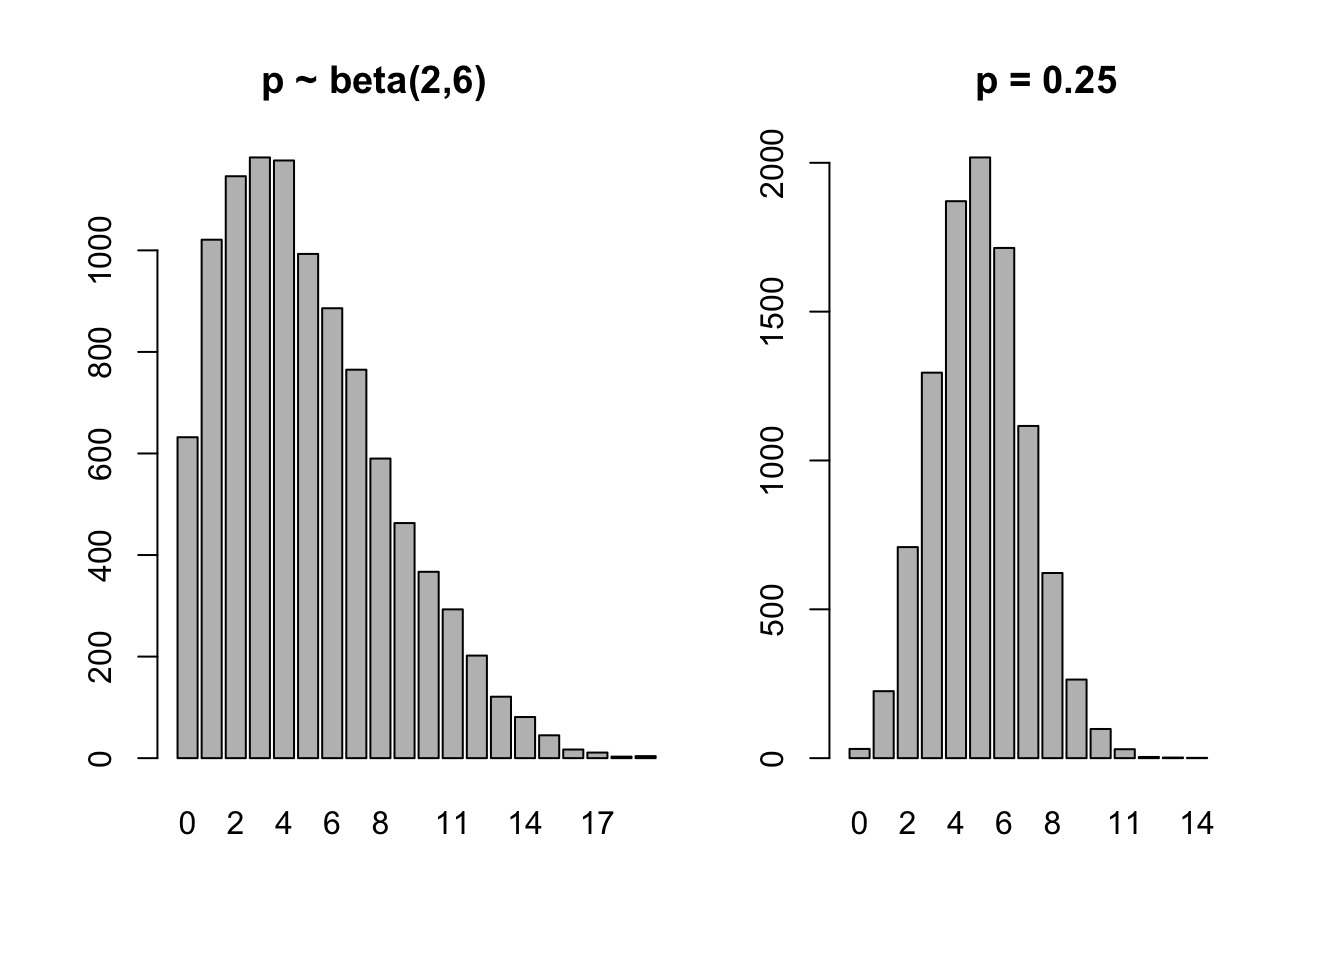
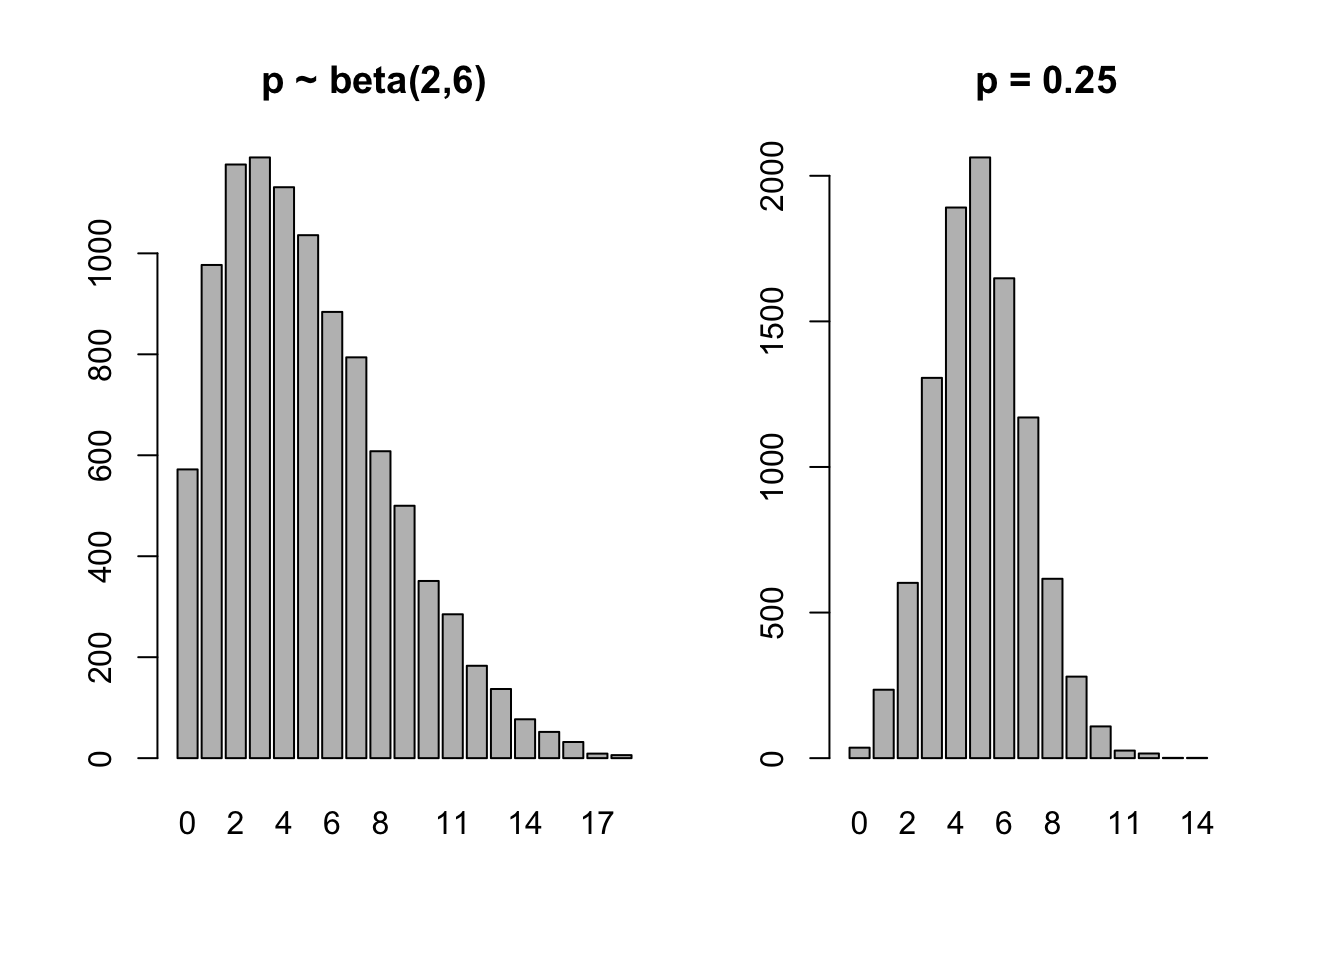
add

diff --git a/docs/teaching/DATA352/course_documents/homework/homework_4.html b/docs/teaching/DATA352/course_documents/homework/homework_4.html
@@ -365,11 +365,11 @@ Show solution
 <div class="code-copy-outer-scaffold"><div class="sourceCode cell-code" id="cb13"><pre class="sourceCode r code-with-copy"><code class="sourceCode r"><span id="cb13-1"><a href="#cb13-1" aria-hidden="true" tabindex="-1"></a>mysim <span class="ot">&lt;-</span> <span class="fu">rbeta</span>(<span class="dv">5000</span>, <span class="at">shape1 =</span> <span class="dv">2</span>, <span class="at">shape2 =</span> <span class="dv">3</span>)</span>
 <span id="cb13-2"><a href="#cb13-2" aria-hidden="true" tabindex="-1"></a><span class="fu">head</span>(mysim)</span></code></pre></div><button title="Copy to Clipboard" class="code-copy-button"><i class="bi"></i></button></div>
 <div class="cell-output cell-output-stdout">
-<pre><code>[1] 0.5889455 0.4849449 0.2070542 0.7482323 0.3377568 0.4885132</code></pre>
+<pre><code>[1] 0.3811981 0.2689802 0.2906540 0.7226574 0.6628485 0.3145463</code></pre>
 </div>
 <div class="code-copy-outer-scaffold"><div class="sourceCode cell-code" id="cb15"><pre class="sourceCode r code-with-copy"><code class="sourceCode r"><span id="cb15-1"><a href="#cb15-1" aria-hidden="true" tabindex="-1"></a><span class="fu">mean</span>(mysim)</span></code></pre></div><button title="Copy to Clipboard" class="code-copy-button"><i class="bi"></i></button></div>
 <div class="cell-output cell-output-stdout">
-<pre><code>[1] 0.4011388</code></pre>
+<pre><code>[1] 0.398767</code></pre>
 </div>
 <div class="code-copy-outer-scaffold"><div class="sourceCode cell-code" id="cb17"><pre class="sourceCode r code-with-copy"><code class="sourceCode r"><span id="cb17-1"><a href="#cb17-1" aria-hidden="true" tabindex="-1"></a><span class="fu">hist</span>(mysim, <span class="at">nclass =</span> <span class="dv">20</span>, <span class="at">main =</span> <span class="st">"5000 simulated days"</span>,</span>
 <span id="cb17-2"><a href="#cb17-2" aria-hidden="true" tabindex="-1"></a>     <span class="at">xlab =</span> <span class="st">"Proportion of stocks going up"</span>, <span class="at">col =</span> <span class="st">"royalblue"</span>)</span></code></pre></div><button title="Copy to Clipboard" class="code-copy-button"><i class="bi"></i></button></div>
@@ -410,7 +410,7 @@ Show solution
 <h2 class="anchored" data-anchor-id="question-4">Question 4</h2>
 <p>In <em>Introduction to Probability</em>, do Question 26 on page 222.</p>
 <blockquote class="blockquote">
-<p>Bridies’ Bearing Works manufactures bearing shafts whose diameters are normally distributed with parameters <span class="math inline">\(\mu = 1\)</span>, <span class="math inline">\(\sigma = .002\)</span>. The buyer’s specifications require these diameters to be 1.000 ± .003 cm. What fraction of the manu- facturer’s shafts are likely to be rejected? If the manufacturer improves her quality control, she can reduce the value of <span class="math inline">\(\sigma\)</span>. What value of <span class="math inline">\(\sigma\)</span> will ensure that no more than 1 percent of her shafts are likely to be rejected?</p>
+<p>Bridies’ Bearing Works manufactures bearing shafts whose diameters are normally distributed with parameters <span class="math inline">\(\mu = 1\)</span>, <span class="math inline">\(\sigma = .002\)</span>. The buyer’s specifications require these diameters to be 1.000 ± .003 cm. What fraction of the manufacturer’s shafts are likely to be rejected? If the manufacturer improves her quality control, she can reduce the value of <span class="math inline">\(\sigma\)</span>. What value of <span class="math inline">\(\sigma\)</span> will ensure that no more than 1 percent of her shafts are likely to be rejected?</p>
 </blockquote>
 <details>
 <summary>
@@ -482,7 +482,7 @@ Show solution
 <div class="code-copy-outer-scaffold"><div class="sourceCode cell-code" id="cb28"><pre class="sourceCode r code-with-copy"><code class="sourceCode r"><span id="cb28-1"><a href="#cb28-1" aria-hidden="true" tabindex="-1"></a>mysim <span class="ot">&lt;-</span> <span class="fu">rbinom</span>(<span class="dv">1000</span>, <span class="at">size =</span> <span class="dv">20</span>, <span class="at">prob =</span> <span class="fl">0.25</span>)</span>
 <span id="cb28-2"><a href="#cb28-2" aria-hidden="true" tabindex="-1"></a><span class="fu">head</span>(mysim)</span></code></pre></div><button title="Copy to Clipboard" class="code-copy-button"><i class="bi"></i></button></div>
 <div class="cell-output cell-output-stdout">
-<pre><code>[1] 3 6 4 5 4 5</code></pre>
+<pre><code>[1] 6 4 3 5 5 4</code></pre>
 </div>
 </div>
 <p>The beta distribution assigned to <span class="math inline">\(p\)</span> has mean <span class="math inline">\(2/8=0.25\)</span>. Both models have the same expected number of responding patients (5), but the beta-binomial model has more variation.</p>
@@ -497,11 +497,11 @@ Show solution
 <span id="cb30-8"><a href="#cb30-8" aria-hidden="true" tabindex="-1"></a></span>
 <span id="cb30-9"><a href="#cb30-9" aria-hidden="true" tabindex="-1"></a><span class="fu">mean</span>(result <span class="sc">&lt;</span> <span class="dv">5</span>)  <span class="co"># Estimated probability fewer than 5 respond</span></span></code></pre></div><button title="Copy to Clipboard" class="code-copy-button"><i class="bi"></i></button></div>
 <div class="cell-output cell-output-stdout">
-<pre><code>[1] 0.5159</code></pre>
+<pre><code>[1] 0.5046</code></pre>
 </div>
 <div class="code-copy-outer-scaffold"><div class="sourceCode cell-code" id="cb32"><pre class="sourceCode r code-with-copy"><code class="sourceCode r"><span id="cb32-1"><a href="#cb32-1" aria-hidden="true" tabindex="-1"></a><span class="fu">mean</span>(result)      <span class="co"># Estimated average number who respond</span></span></code></pre></div><button title="Copy to Clipboard" class="code-copy-button"><i class="bi"></i></button></div>
 <div class="cell-output cell-output-stdout">
-<pre><code>[1] 4.9381</code></pre>
+<pre><code>[1] 5.0082</code></pre>
 </div>
 <div class="code-copy-outer-scaffold"><div class="sourceCode cell-code" id="cb34"><pre class="sourceCode r code-with-copy"><code class="sourceCode r"><span id="cb34-1"><a href="#cb34-1" aria-hidden="true" tabindex="-1"></a><span class="fu">par</span>(<span class="at">mfrow =</span> <span class="fu">c</span>(<span class="dv">1</span>, <span class="dv">2</span>))</span>
 <span id="cb34-2"><a href="#cb34-2" aria-hidden="true" tabindex="-1"></a><span class="fu">plot</span>(<span class="fu">as.factor</span>(result), <span class="at">main =</span> <span class="st">"p ~ beta(2,6)"</span>, <span class="at">xlim =</span> <span class="fu">c</span>(<span class="dv">0</span>, <span class="dv">20</span>))</span>
@@ -544,13 +544,13 @@ Show solution
 <span id="cb37-2"><a href="#cb37-2" aria-hidden="true" tabindex="-1"></a>                   <span class="at">prob =</span> <span class="fu">c</span>(<span class="dv">1</span> <span class="sc">-</span> a, a))</span>
 <span id="cb37-3"><a href="#cb37-3" aria-hidden="true" tabindex="-1"></a>mysample</span></code></pre></div><button title="Copy to Clipboard" class="code-copy-button"><i class="bi"></i></button></div>
 <div class="cell-output cell-output-stdout">
-<pre><code>  [1] 1 1 0 1 1 0 1 1 0 1 1 1 1 0 1 0 0 0 1 0 1 1 1 0 1 1 1 1 0 1 1 1 1 1 0 1 1
- [38] 1 1 1 0 1 0 1 0 0 1 1 0 1 0 1 1 1 1 0 0 1 1 1 0 1 1 1 1 1 1 0 1 0 1 1 1 1
- [75] 1 1 1 1 1 0 0 1 0 1 1 1 1 0 0 1 1 1 1 0 1 1 1 1 0 1</code></pre>
+<pre><code>  [1] 1 0 0 1 1 1 1 1 1 0 1 1 1 1 1 0 1 1 1 1 1 1 1 1 1 1 0 1 1 0 1 0 1 1 1 1 1
+ [38] 1 1 1 1 1 0 0 1 1 0 1 1 1 0 1 1 1 0 1 1 1 1 0 1 1 1 1 1 1 1 0 1 1 1 0 1 0
+ [75] 1 1 1 1 1 1 1 1 0 1 1 1 1 1 0 1 1 0 0 1 1 1 1 1 1 1</code></pre>
 </div>
 <div class="code-copy-outer-scaffold"><div class="sourceCode cell-code" id="cb39"><pre class="sourceCode r code-with-copy"><code class="sourceCode r"><span id="cb39-1"><a href="#cb39-1" aria-hidden="true" tabindex="-1"></a><span class="fu">sum</span>(mysample)</span></code></pre></div><button title="Copy to Clipboard" class="code-copy-button"><i class="bi"></i></button></div>
 <div class="cell-output cell-output-stdout">
-<pre><code>[1] 71</code></pre>
+<pre><code>[1] 80</code></pre>
 </div>
 </div>
 <p>For part 3, compare the simulation estimate with the exact binomial probability.</p>
@@ -566,7 +566,7 @@ Show solution
 <span id="cb41-9"><a href="#cb41-9" aria-hidden="true" tabindex="-1"></a></span>
 <span id="cb41-10"><a href="#cb41-10" aria-hidden="true" tabindex="-1"></a><span class="fu">mean</span>(result <span class="sc">&gt;=</span> <span class="dv">80</span>)  <span class="co"># Simulation estimate</span></span></code></pre></div><button title="Copy to Clipboard" class="code-copy-button"><i class="bi"></i></button></div>
 <div class="cell-output cell-output-stdout">
-<pre><code>[1] 0.1065</code></pre>
+<pre><code>[1] 0.1015</code></pre>
 </div>
 <div class="code-copy-outer-scaffold"><div class="sourceCode cell-code" id="cb43"><pre class="sourceCode r code-with-copy"><code class="sourceCode r"><span id="cb43-1"><a href="#cb43-1" aria-hidden="true" tabindex="-1"></a><span class="dv">1</span> <span class="sc">-</span> <span class="fu">pbinom</span>(<span class="dv">79</span>, <span class="at">size =</span> <span class="dv">100</span>, <span class="at">prob =</span> a)  <span class="co"># Exact probability</span></span></code></pre></div><button title="Copy to Clipboard" class="code-copy-button"><i class="bi"></i></button></div>
 <div class="cell-output cell-output-stdout">
@@ -604,7 +604,7 @@ Show solution
 <span id="cb46-14"><a href="#cb46-14" aria-hidden="true" tabindex="-1"></a></span>
 <span id="cb46-15"><a href="#cb46-15" aria-hidden="true" tabindex="-1"></a><span class="fu">mean</span>(result <span class="sc">&gt;=</span> <span class="dv">80</span>)</span></code></pre></div><button title="Copy to Clipboard" class="code-copy-button"><i class="bi"></i></button></div>
 <div class="cell-output cell-output-stdout">
-<pre><code>[1] 0.2608</code></pre>
+<pre><code>[1] 0.2623</code></pre>
 </div>
 <div class="code-copy-outer-scaffold"><div class="sourceCode cell-code" id="cb48"><pre class="sourceCode r code-with-copy"><code class="sourceCode r"><span id="cb48-1"><a href="#cb48-1" aria-hidden="true" tabindex="-1"></a><span class="fu">hist</span>(result, <span class="at">probability =</span> <span class="cn">TRUE</span>,</span>
 <span id="cb48-2"><a href="#cb48-2" aria-hidden="true" tabindex="-1"></a>     <span class="at">main =</span> <span class="st">"Number of patients with symptoms in 5 days"</span>,</span>

diff --git a/docs/teaching/DATA352/course_documents/all_lectures/Lecture_3.html b/docs/teaching/DATA352/course_documents/all_lectures/Lecture_3.html
@@ -239,7 +239,7 @@
 <span id="cb1-6"><a href=""></a><span class="co"># 2. Test the function</span></span>
 <span id="cb1-7"><a href=""></a><span class="fu">sim_die</span>()</span></code></pre></div><button title="Copy to Clipboard" class="code-copy-button"><i class="bi"></i></button></div>
 <div class="cell-output cell-output-stdout">
-<pre><code>[1] 1</code></pre>
+<pre><code>[1] 4</code></pre>
 </div>
 <div class="code-copy-outer-scaffold"><div class="sourceCode cell-code" id="cb3"><pre class="sourceCode numberSource r number-lines code-with-copy"><code class="sourceCode r"><span id="cb3-1"><a href=""></a><span class="co"># 3. Initialize global simulation parameters</span></span>
 <span id="cb3-2"><a href=""></a>NSIM <span class="ot">&lt;-</span> <span class="dv">10000</span></span>
@@ -253,13 +253,13 @@
 <span id="cb3-10"><a href=""></a>}</span>
 <span id="cb3-11"><a href=""></a><span class="fu">mean</span>(result)</span></code></pre></div><button title="Copy to Clipboard" class="code-copy-button"><i class="bi"></i></button></div>
 <div class="cell-output cell-output-stdout">
-<pre><code>[1] 3.5053</code></pre>
+<pre><code>[1] 3.4698</code></pre>
 </div>
 <div class="code-copy-outer-scaffold"><div class="sourceCode cell-code" id="cb5"><pre class="sourceCode numberSource r number-lines code-with-copy"><code class="sourceCode r"><span id="cb5-1"><a href=""></a><span class="do">#### Method 2: Base R replicate()</span></span>
 <span id="cb5-2"><a href=""></a>result <span class="ot">&lt;-</span> <span class="fu">replicate</span>(NSIM, <span class="fu">sim_die</span>())</span>
 <span id="cb5-3"><a href=""></a><span class="fu">mean</span>(result)</span></code></pre></div><button title="Copy to Clipboard" class="code-copy-button"><i class="bi"></i></button></div>
 <div class="cell-output cell-output-stdout">
-<pre><code>[1] 3.492</code></pre>
+<pre><code>[1] 3.475</code></pre>
 </div>
 <div class="code-copy-outer-scaffold"><div class="sourceCode cell-code" id="cb7"><pre class="sourceCode numberSource r number-lines code-with-copy"><code class="sourceCode r"><span id="cb7-1"><a href=""></a><span class="do">#### Method 3: parallel processing (optional)</span></span>
 <span id="cb7-2"><a href=""></a><span class="fu">library</span>(parallel)</span>
@@ -269,7 +269,7 @@
 <span id="cb7-6"><a href=""></a><span class="fu">stopCluster</span>(cl)</span>
 <span id="cb7-7"><a href=""></a><span class="fu">mean</span>(result)</span></code></pre></div><button title="Copy to Clipboard" class="code-copy-button"><i class="bi"></i></button></div>
 <div class="cell-output cell-output-stdout">
-<pre><code>[1] 3.4874</code></pre>
+<pre><code>[1] 3.526</code></pre>
 </div>
 </div>
 <p>Note: Method 1 and Method 2 are computational similar (provided that the <code>result</code> vector is <strong>pre-allocated</strong>). Method 3 is more advanced and can be significantly faster for very large simulations.</p>
@@ -360,7 +360,7 @@ Show solution
 </div>
 <div class="code-copy-outer-scaffold"><div class="sourceCode cell-code" id="cb18"><pre class="sourceCode numberSource r number-lines code-with-copy"><code class="sourceCode r"><span id="cb18-1"><a href=""></a><span class="fu">roll_die</span>(<span class="dv">20</span>)</span></code></pre></div><button title="Copy to Clipboard" class="code-copy-button"><i class="bi"></i></button></div>
 <div class="cell-output cell-output-stdout">
-<pre><code>[1] 10</code></pre>
+<pre><code>[1] 16</code></pre>
 </div>
 <div class="code-copy-outer-scaffold"><div class="sourceCode cell-code" id="cb20"><pre class="sourceCode numberSource r number-lines code-with-copy"><code class="sourceCode r"><span id="cb20-1"><a href=""></a>mean_of_two <span class="ot">&lt;-</span> <span class="cf">function</span>(x, y) {</span>
 <span id="cb20-2"><a href=""></a>  result <span class="ot">&lt;-</span> (x <span class="sc">+</span> y) <span class="sc">/</span> <span class="dv">2</span></span>
@@ -413,7 +413,7 @@ Show solution
 <span id="cb25-4"><a href=""></a>result <span class="ot">&lt;-</span> <span class="fu">replicate</span>(NSIM, <span class="fu">play_game</span>())</span>
 <span id="cb25-5"><a href=""></a><span class="fu">mean</span>(result)</span></code></pre></div><button title="Copy to Clipboard" class="code-copy-button"><i class="bi"></i></button></div>
 <div class="cell-output cell-output-stdout">
-<pre><code>[1] -0.8065</code></pre>
+<pre><code>[1] -0.922</code></pre>
 </div>
 </div>
 <p>For comparison, the expected value is</p>

diff --git a/teaching/DATA352/course_documents/all_lectures/Lecture_3.html b/teaching/DATA352/course_documents/all_lectures/Lecture_3.html
@@ -239,7 +239,7 @@
 <span id="cb1-6"><a href=""></a><span class="co"># 2. Test the function</span></span>
 <span id="cb1-7"><a href=""></a><span class="fu">sim_die</span>()</span></code></pre></div><button title="Copy to Clipboard" class="code-copy-button"><i class="bi"></i></button></div>
 <div class="cell-output cell-output-stdout">
-<pre><code>[1] 1</code></pre>
+<pre><code>[1] 4</code></pre>
 </div>
 <div class="code-copy-outer-scaffold"><div class="sourceCode cell-code" id="cb3"><pre class="sourceCode numberSource r number-lines code-with-copy"><code class="sourceCode r"><span id="cb3-1"><a href=""></a><span class="co"># 3. Initialize global simulation parameters</span></span>
 <span id="cb3-2"><a href=""></a>NSIM <span class="ot">&lt;-</span> <span class="dv">10000</span></span>
@@ -253,13 +253,13 @@
 <span id="cb3-10"><a href=""></a>}</span>
 <span id="cb3-11"><a href=""></a><span class="fu">mean</span>(result)</span></code></pre></div><button title="Copy to Clipboard" class="code-copy-button"><i class="bi"></i></button></div>
 <div class="cell-output cell-output-stdout">
-<pre><code>[1] 3.5053</code></pre>
+<pre><code>[1] 3.4698</code></pre>
 </div>
 <div class="code-copy-outer-scaffold"><div class="sourceCode cell-code" id="cb5"><pre class="sourceCode numberSource r number-lines code-with-copy"><code class="sourceCode r"><span id="cb5-1"><a href=""></a><span class="do">#### Method 2: Base R replicate()</span></span>
 <span id="cb5-2"><a href=""></a>result <span class="ot">&lt;-</span> <span class="fu">replicate</span>(NSIM, <span class="fu">sim_die</span>())</span>
 <span id="cb5-3"><a href=""></a><span class="fu">mean</span>(result)</span></code></pre></div><button title="Copy to Clipboard" class="code-copy-button"><i class="bi"></i></button></div>
 <div class="cell-output cell-output-stdout">
-<pre><code>[1] 3.492</code></pre>
+<pre><code>[1] 3.475</code></pre>
 </div>
 <div class="code-copy-outer-scaffold"><div class="sourceCode cell-code" id="cb7"><pre class="sourceCode numberSource r number-lines code-with-copy"><code class="sourceCode r"><span id="cb7-1"><a href=""></a><span class="do">#### Method 3: parallel processing (optional)</span></span>
 <span id="cb7-2"><a href=""></a><span class="fu">library</span>(parallel)</span>
@@ -269,7 +269,7 @@
 <span id="cb7-6"><a href=""></a><span class="fu">stopCluster</span>(cl)</span>
 <span id="cb7-7"><a href=""></a><span class="fu">mean</span>(result)</span></code></pre></div><button title="Copy to Clipboard" class="code-copy-button"><i class="bi"></i></button></div>
 <div class="cell-output cell-output-stdout">
-<pre><code>[1] 3.4874</code></pre>
+<pre><code>[1] 3.526</code></pre>
 </div>
 </div>
 <p>Note: Method 1 and Method 2 are computational similar (provided that the <code>result</code> vector is <strong>pre-allocated</strong>). Method 3 is more advanced and can be significantly faster for very large simulations.</p>
@@ -360,7 +360,7 @@ Show solution
 </div>
 <div class="code-copy-outer-scaffold"><div class="sourceCode cell-code" id="cb18"><pre class="sourceCode numberSource r number-lines code-with-copy"><code class="sourceCode r"><span id="cb18-1"><a href=""></a><span class="fu">roll_die</span>(<span class="dv">20</span>)</span></code></pre></div><button title="Copy to Clipboard" class="code-copy-button"><i class="bi"></i></button></div>
 <div class="cell-output cell-output-stdout">
-<pre><code>[1] 10</code></pre>
+<pre><code>[1] 16</code></pre>
 </div>
 <div class="code-copy-outer-scaffold"><div class="sourceCode cell-code" id="cb20"><pre class="sourceCode numberSource r number-lines code-with-copy"><code class="sourceCode r"><span id="cb20-1"><a href=""></a>mean_of_two <span class="ot">&lt;-</span> <span class="cf">function</span>(x, y) {</span>
 <span id="cb20-2"><a href=""></a>  result <span class="ot">&lt;-</span> (x <span class="sc">+</span> y) <span class="sc">/</span> <span class="dv">2</span></span>
@@ -413,7 +413,7 @@ Show solution
 <span id="cb25-4"><a href=""></a>result <span class="ot">&lt;-</span> <span class="fu">replicate</span>(NSIM, <span class="fu">play_game</span>())</span>
 <span id="cb25-5"><a href=""></a><span class="fu">mean</span>(result)</span></code></pre></div><button title="Copy to Clipboard" class="code-copy-button"><i class="bi"></i></button></div>
 <div class="cell-output cell-output-stdout">
-<pre><code>[1] -0.8065</code></pre>
+<pre><code>[1] -0.922</code></pre>
 </div>
 </div>
 <p>For comparison, the expected value is</p>

diff --git a/docs/teaching/STAT117/weeks/week_7/week_7.html b/docs/teaching/STAT117/weeks/week_7/week_7.html
@@ -253,9 +253,14 @@ ul.task-list li input[type="checkbox"] {
 </section>
 <section id="tuesday-oct-13" class="level2">
 <h2 class="anchored" data-anchor-id="tuesday-oct-13">Tuesday, Oct 13</h2>
+<p>No class.</p>
 </section>
 <section id="thursday-oct-15" class="level2">
 <h2 class="anchored" data-anchor-id="thursday-oct-15">Thursday, Oct 15</h2>
+<p>Continue Chapter 5; using correlation coefficients to describe bivariate relationship. Submit assignment 4 on Moodle.</p>
+<p><a href="../../course_documents/all_lectures/chapter_5_slide.html" target="_blank">Link to fullscreen</a></p>
+<iframe src="../../course_documents/all_lectures/chapter_5_slide.html" width="100%" height="650px" style="border:none;">
+</iframe>
 
 
 </section>

diff --git a/docs/teaching/STAT117/weeks/week_6/week_6.html b/docs/teaching/STAT117/weeks/week_6/week_6.html
@@ -265,6 +265,9 @@ ul.task-list li input[type="checkbox"] {
 </section>
 <section id="thursday-oct-8" class="level2">
 <h2 class="anchored" data-anchor-id="thursday-oct-8">Thursday, Oct 8</h2>
+<p><a href="../../course_documents/all_lectures/chapter_5_slide.html" target="_blank">Link to fullscreen</a></p>
+<iframe src="../../course_documents/all_lectures/chapter_5_slide.html" width="100%" height="650px" style="border:none;">
+</iframe>
 
 
 </section>
